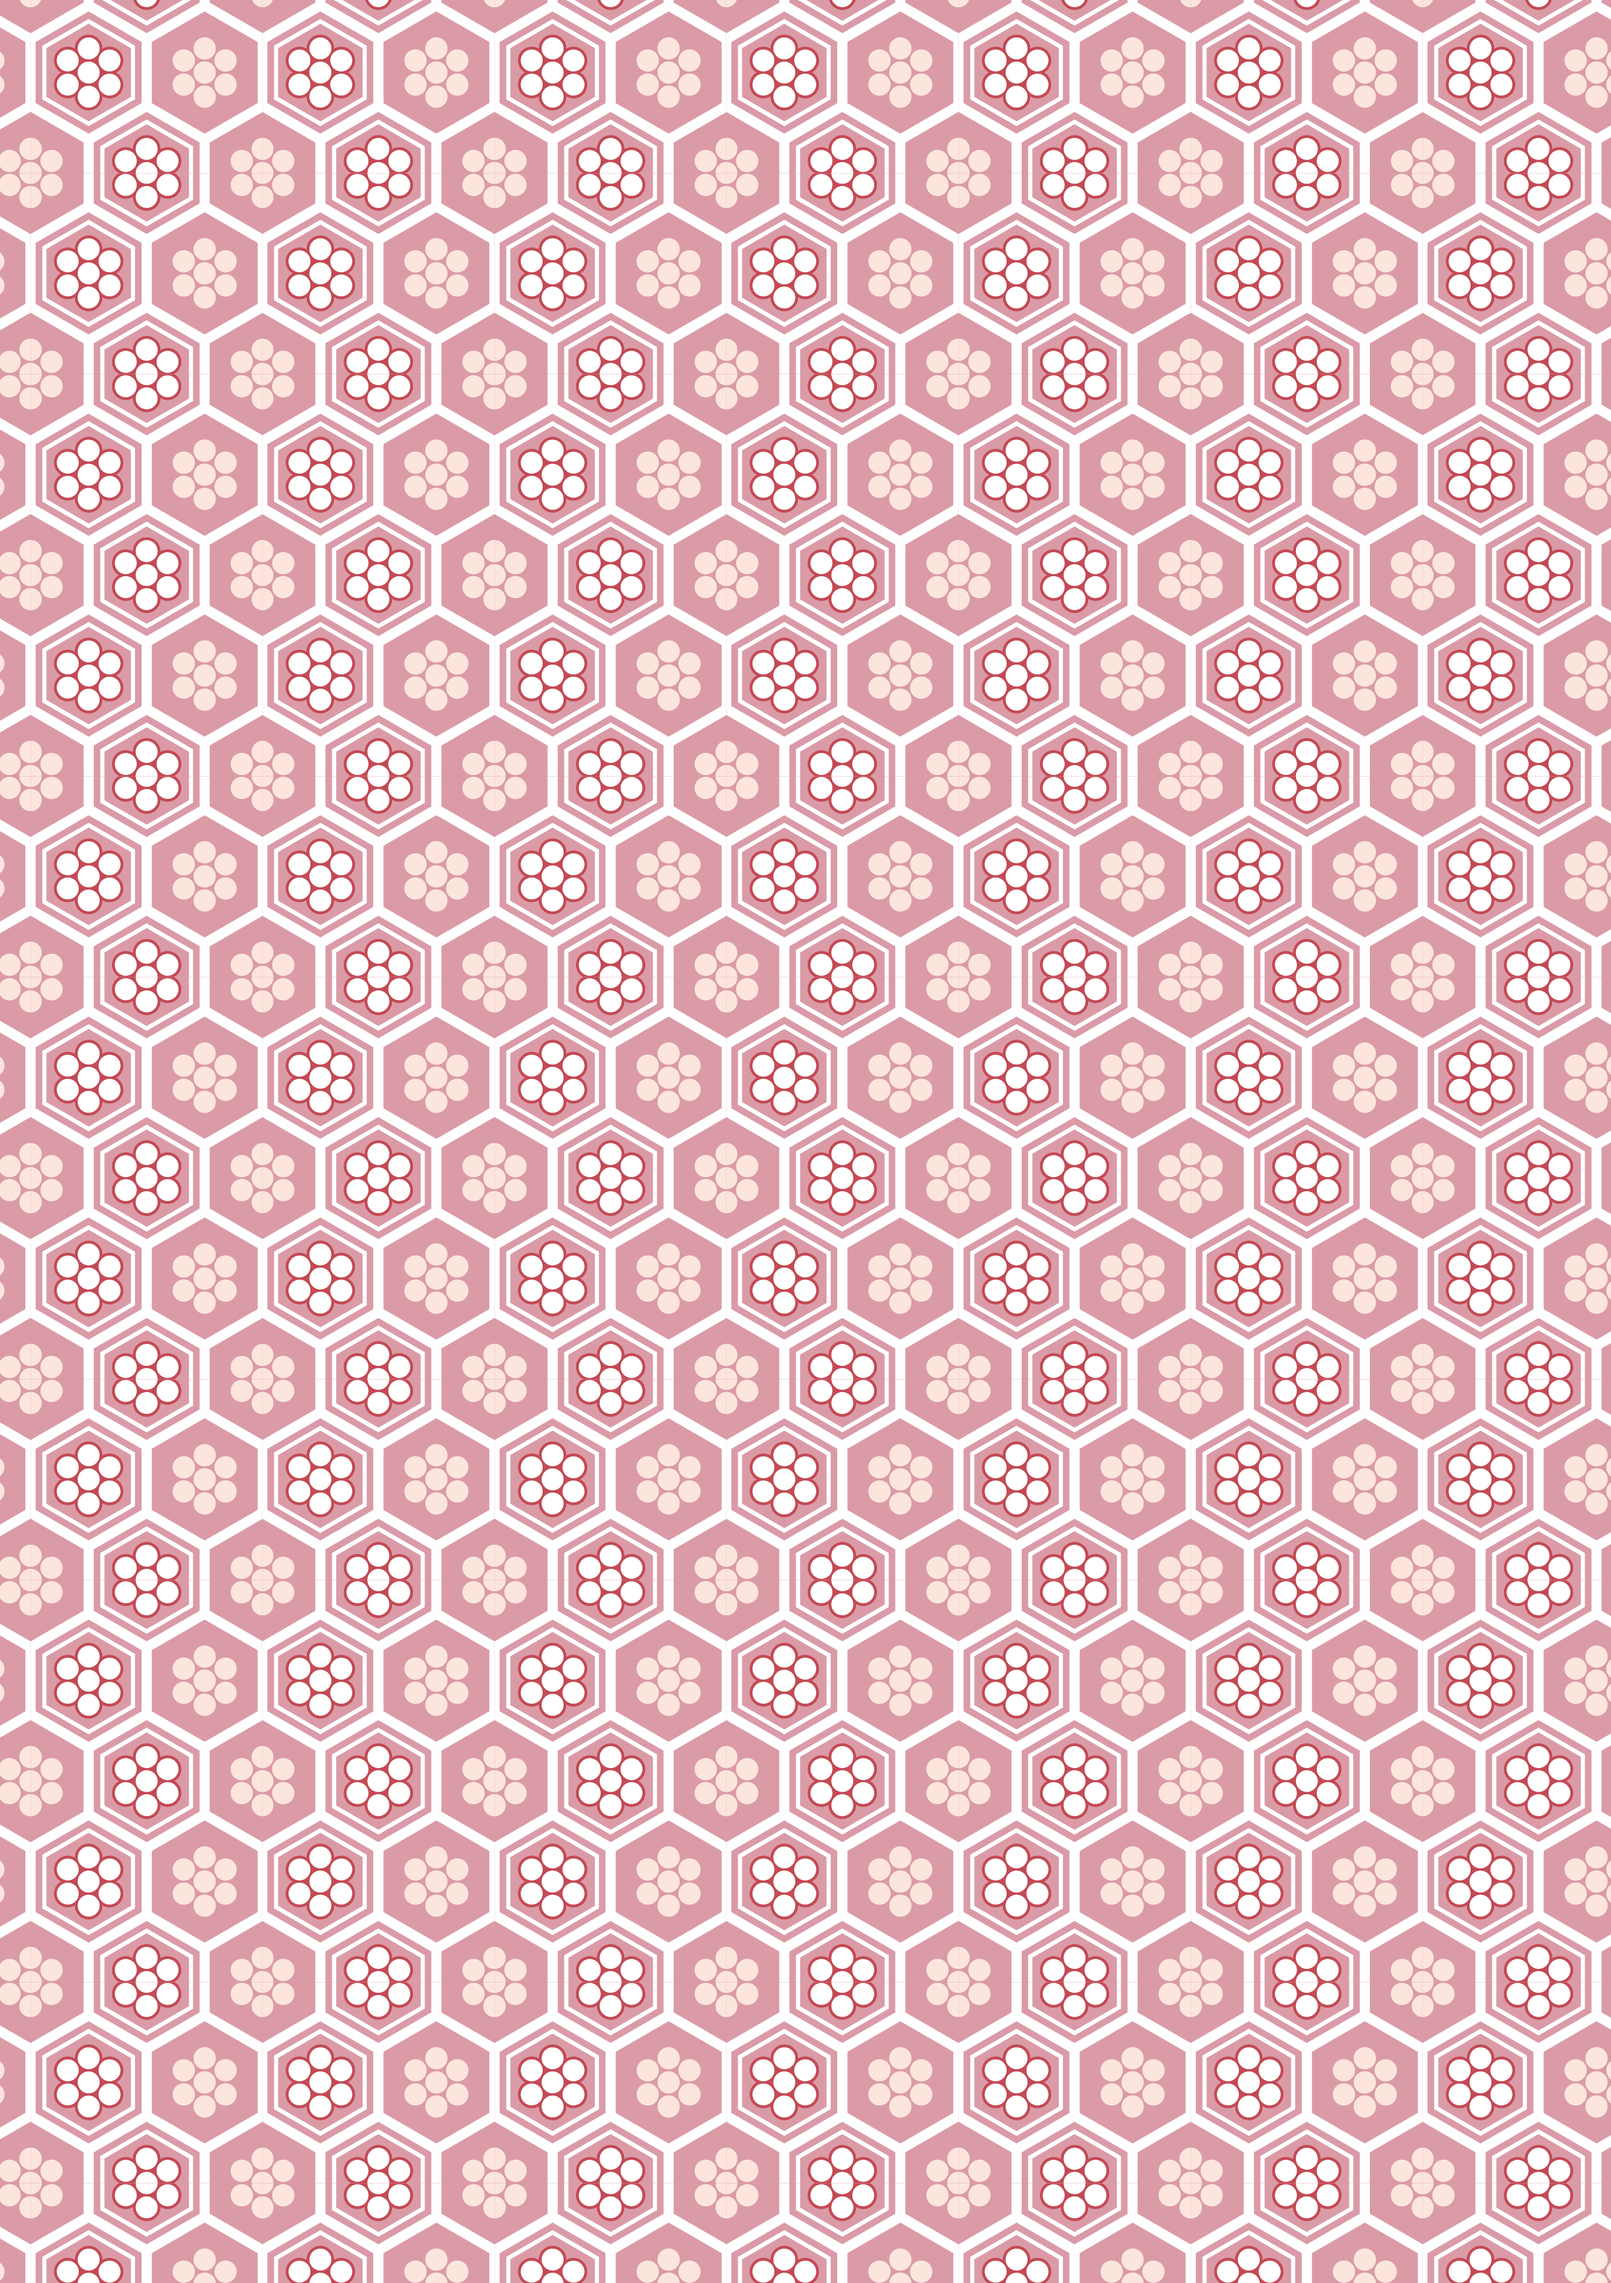
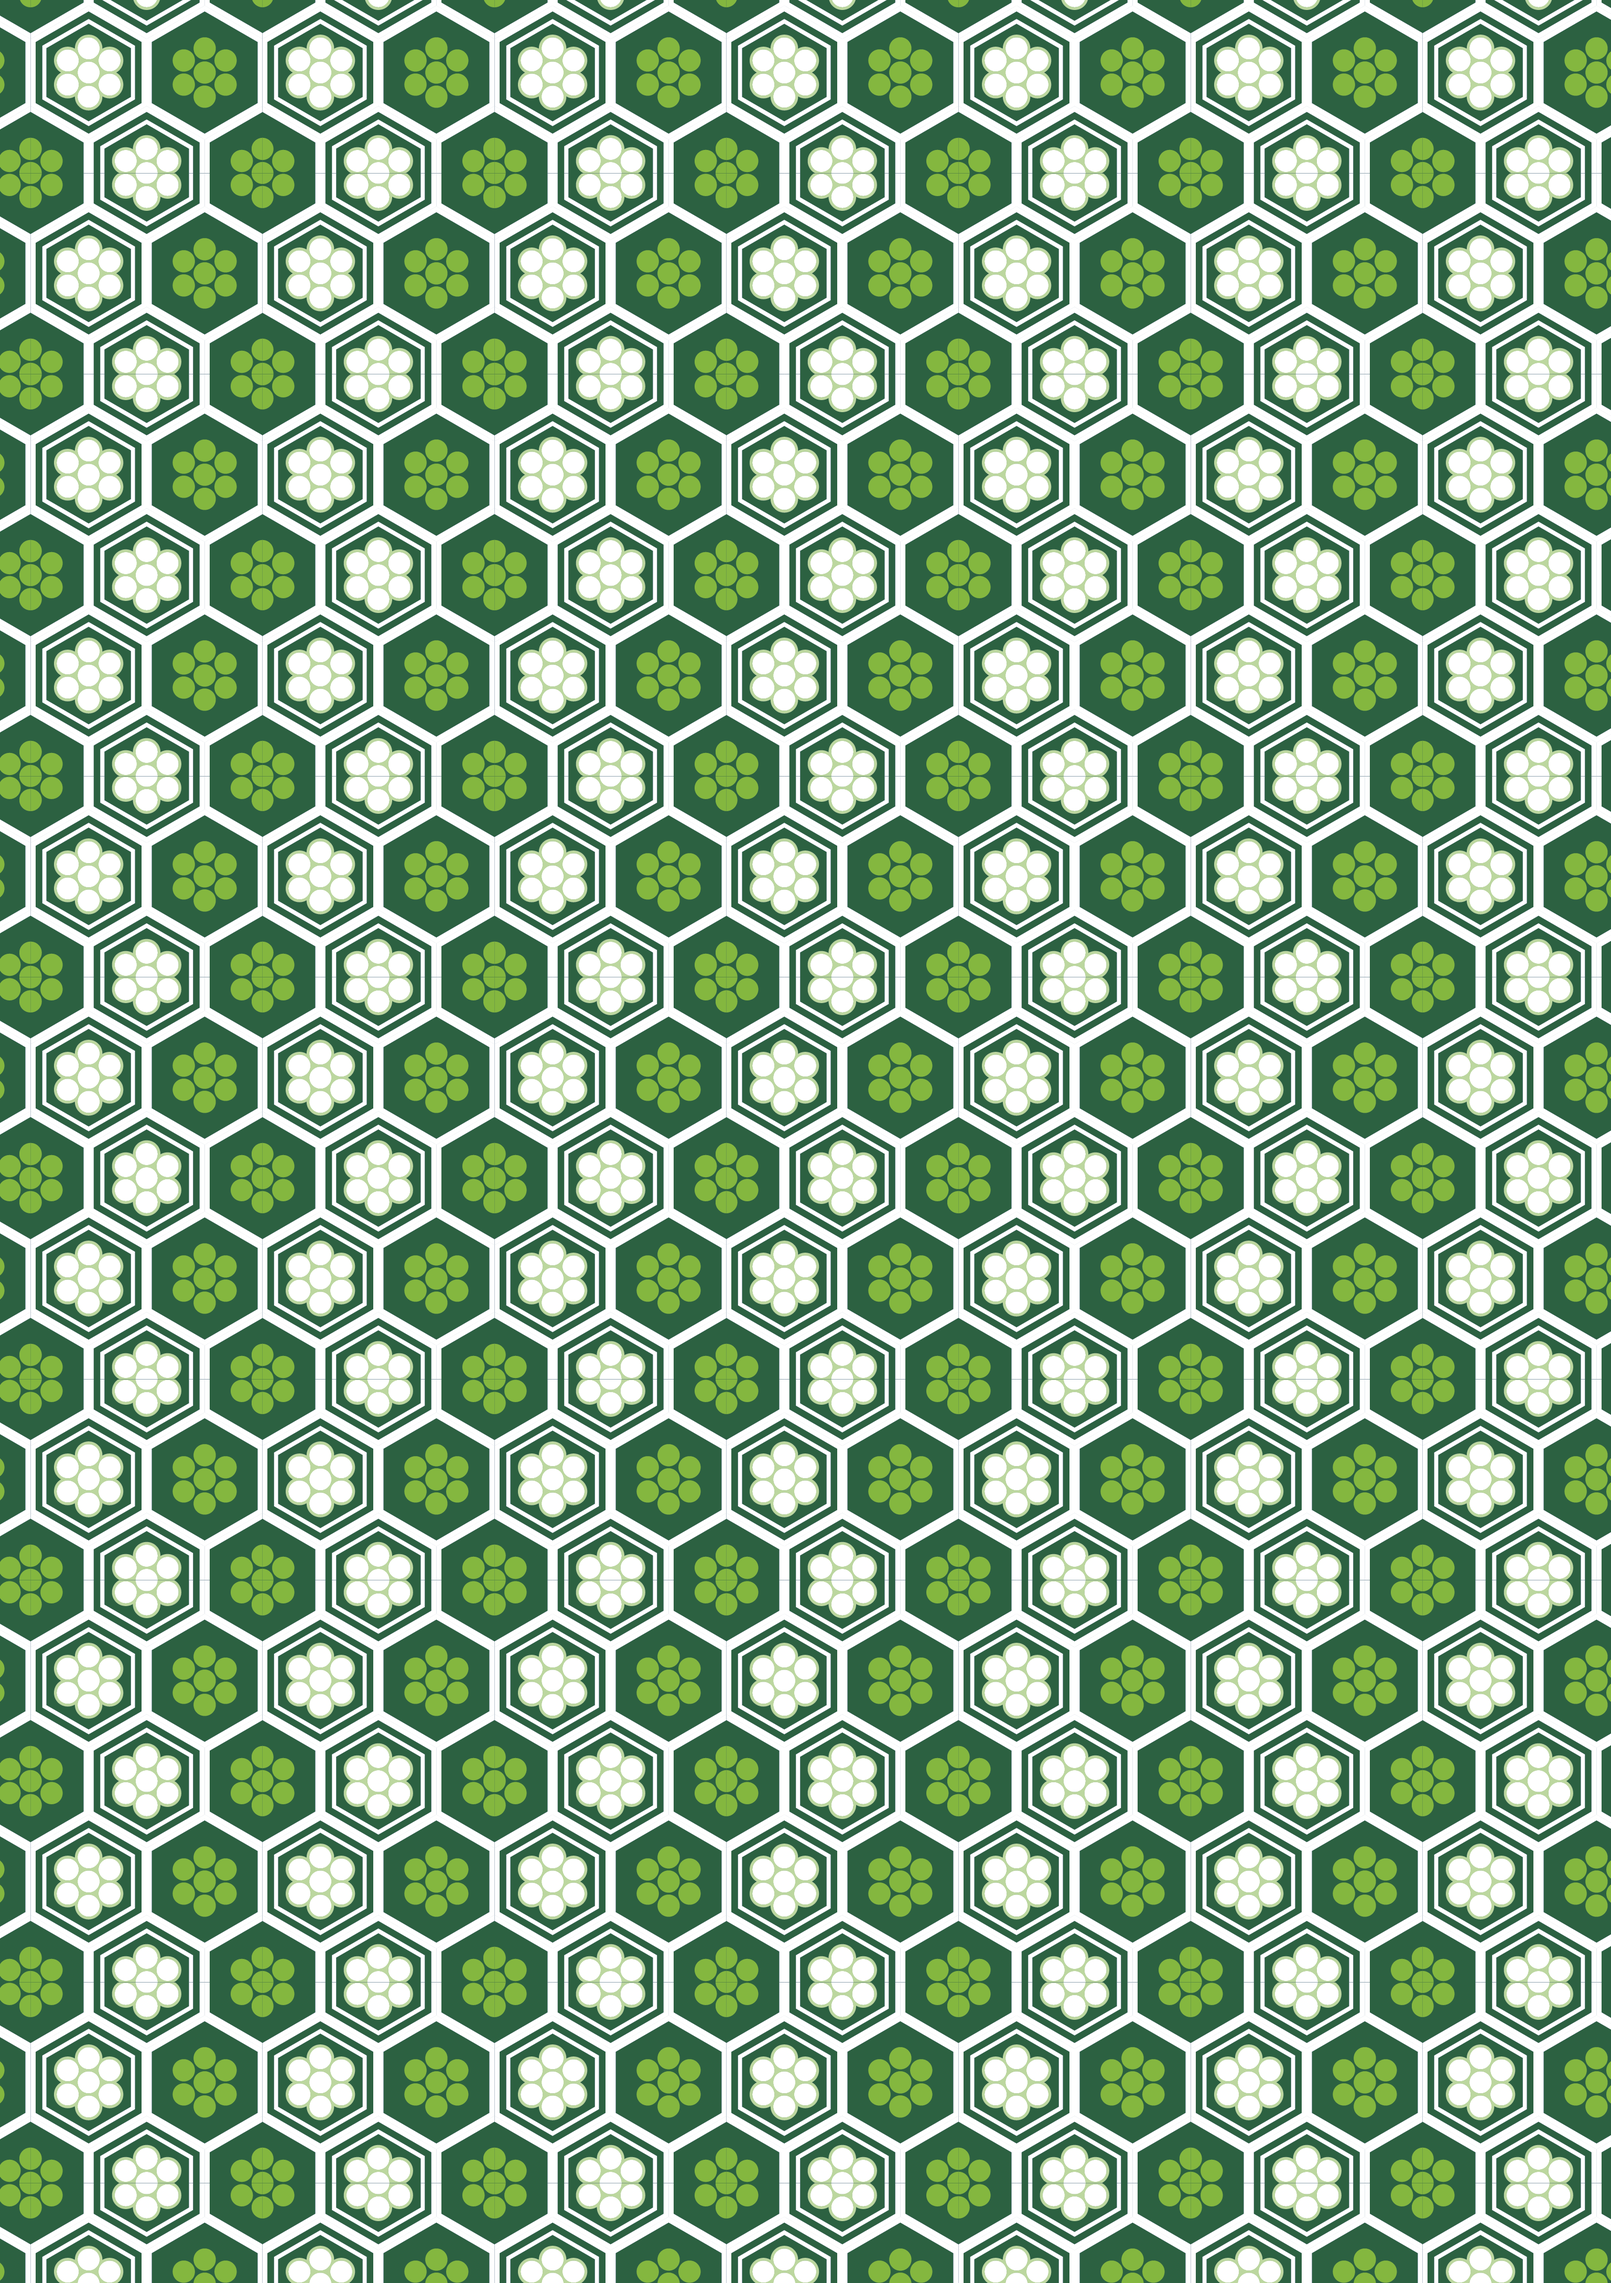
Add files via upload

diff --git a/sasoiScoreManager.js b/sasoiScoreManager.js
@@ -576,7 +576,7 @@ id:"combined13",
 number:"熟誘技",
 numberKana:"じゅくゆうぎ",
 title:"初釣戦・伍拾獲超",
-titleKana:"ちょうせん・ごじゅうかくちょう",
+titleKana:"はつちょうせん・ごじゅうかくちょう",
 difficulty:"★★★★☆",
 charts:[
 "score01",
@@ -680,8 +680,8 @@ background:"images/sasoi-score29-bg.png"
 id:"combined15",
 number:"熟誘技",
 numberKana:"じゅくゆうぎ",
-title:"大獲戦・弐百獲超",
-titleKana:"だいかくせん・にひゃくかくちょう",
+title:"大漁戦・弐百獲超",
+titleKana:"たいりょうせん・にひゃくかくちょう",
 difficulty:"★★★★☆",
 charts:[
 "score01",
@@ -761,141 +761,6 @@ charts:[
 "score15"
 ],
 background:"images/sasoi-score30-bg.png"
-},
-
-// ==========================================
-// 熟誘技 04
-// ==========================================
-{
-id:"combined16",
-number:"熟誘技",
-numberKana:"じゅくゆうぎ",
-title:"大漁戦・参百獲超",
-titleKana:"たいりょうせん・さんびゃくかくちょう",
-difficulty:"★★★★☆",
-charts:[
-"score01",
-"score02",
-"score03",
-"score04",
-"score05",
-"score06",
-"score07",
-"score08",
-"score09",
-"score10",
-"score11",
-"score12",
-"score13",
-"score14",
-"score15",
-"score01",
-"score02",
-"score03",
-"score04",
-"score05",
-"score06",
-"score07",
-"score08",
-"score09",
-"score10",
-"score11",
-"score12",
-"score13",
-"score14",
-"score15",
-"score01",
-"score02",
-"score03",
-"score04",
-"score05",
-"score06",
-"score07",
-"score08",
-"score09",
-"score10",
-"score11",
-"score12",
-"score13",
-"score14",
-"score15",
-"score01",
-"score02",
-"score03",
-"score04",
-"score05",
-"score06",
-"score07",
-"score08",
-"score09",
-"score10",
-"score11",
-"score12",
-"score13",
-"score14",
-"score15",
-"score01",
-"score02",
-"score03",
-"score04",
-"score05",
-"score06",
-"score07",
-"score08",
-"score09",
-"score10",
-"score11",
-"score12",
-"score13",
-"score14",
-"score15",
-"score01",
-"score02",
-"score03",
-"score04",
-"score05",
-"score06",
-"score07",
-"score08",
-"score09",
-"score10",
-"score11",
-"score12",
-"score13",
-"score14",
-"score15",
-"score01",
-"score02",
-"score03",
-"score04",
-"score05",
-"score06",
-"score07",
-"score08",
-"score09",
-"score10",
-"score11",
-"score12",
-"score13",
-"score14",
-"score15",
-"score01",
-"score02",
-"score03",
-"score04",
-"score05",
-"score06",
-"score07",
-"score08",
-"score09",
-"score10",
-"score11",
-"score12",
-"score13",
-"score14",
-"score15"
-],
-background:"images/sasoi-score31-bg.png"
 }
 
 
@@ -930,26 +795,15 @@ background: "images/sasoi-score33-bg.png"
 id: "combined19",
 number: "誘名人",
 numberKana: "ゆうめいじん",
-title: "大獲戦・弐百獲超",
-titleKana: "だいかくせん・にひゃくかくちょう",
+title: "大漁戦・弐百獲超",
+titleKana: "たいりょうせん・にひゃくかくちょう",
 difficulty: "★★★★★",
 charts: sasoiCombinedScoreList.find(function(scoreData) {
 return scoreData.id === "combined15";
 }).charts,
 background: "images/sasoi-score34-bg.png"
-},
-{
-id: "combined20",
-number: "誘名人",
-numberKana: "ゆうめいじん",
-title: "大漁戦・参百獲超",
-titleKana: "たいりょうせん・さんびゃくかくちょう",
-difficulty: "★★★★★",
-charts: sasoiCombinedScoreList.find(function(scoreData) {
-return scoreData.id === "combined16";
-}).charts,
-background: "images/sasoi-score35-bg.png"
 }
+
 );
 
 
@@ -1806,18 +1660,14 @@ combined14:
 100,
 
 combined15:
-200,
-
-combined16:
-300
+200
 
 },
 
 scoreIds: [
 "combined13",
 "combined14",
-"combined15",
-"combined16"
+"combined15"
 ]
 
 },
@@ -1847,18 +1697,14 @@ combined18:
 100,
 
 combined19:
-200,
-
-combined20:
-300
+200
 
 },
 
 scoreIds: [
 "combined17",
 "combined18",
-"combined19",
-"combined20"
+"combined19"
 ]
 
 }

diff --git a/sw.js b/sw.js
@@ -1,6 +1,6 @@
 // sw.js (Double Bite!! 安定版・GitHub Pages向け)
 
-const CACHE_NAME = "double-bite-app-v107";
+const CACHE_NAME = "double-bite-app-v108";
 
 // ★静的アセットのみキャッシュ（HTMLは入れない）
 const ASSETS = [
